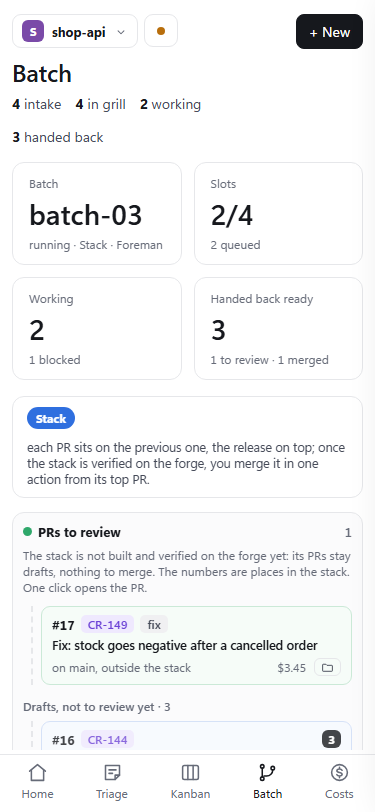
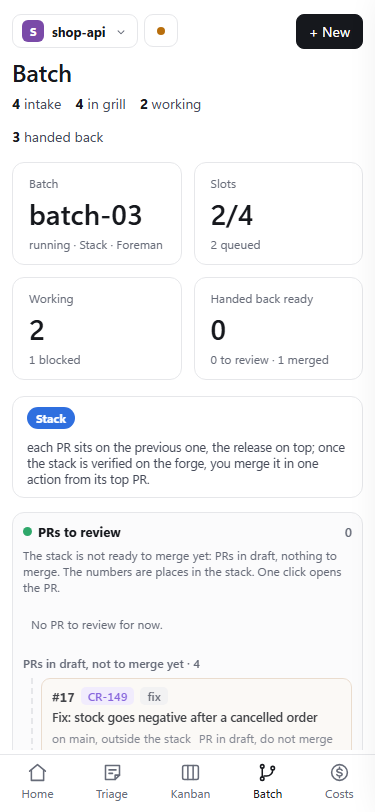
docs(board): retake the web board screenshots and describe the ready locally, PR in draft and ready to merge states

diff --git a/docs/web-board.md b/docs/web-board.md
@@ -18,23 +18,23 @@ The data refreshes by itself. The line under the bar says how old it is (`Data: 
 
 ![All projects: one line per project](web-board/home-pc.png)
 
-With several projects, Home is the table of **All projects**: the batch of each (running or not), the CRs working, the PRs to review, a progress gauge, what was spent against the budget, and the numbers of the intake and the grill. A click on a line opens that project. All projects is read-only.
+With several projects, Home is the table of **All projects**: the batch of each (running or not), the CRs working, the PRs to review (ready to merge), a progress gauge, what was spent against the budget, and the numbers of the intake and the grill. A click on a line opens that project. All projects is read-only.
 
 ### Home: a project
 
 ![A project's Home](web-board/project-pc.png)
 
-A project's Home answers "what needs me?": the PRs ready to review, what is blocked and the questions the Foreman asked, the next batch in preparation (`3-ready`), the pipeline of the backlog, the recent activity of the batch and the last merged CRs.
+A project's Home answers "what needs me?": four tiles (**To review**, the PRs ready to merge; **Waiting for you**, what is blocked and the questions the Foreman asked; **Next batch**; **Written by the board**), the batch with its progress gauge, the open PRs, the pipeline of the backlog, the recent activity of the batch and the last merged CRs.
 
 ### Batch
 
-![The batch: levels, PRs to review and merged PRs](web-board/batch-pc.png)
+![The batch: levels, PRs to review, PRs in draft and merged PRs](web-board/batch-pc.png)
 
-The batch in a few numbers (its id, the slots, the CRs working, the CRs handed back, the cost against the budget), then the CRs as boxes in levels: a CR sits one level after the CRs it waits for, and an arrow goes from a CR to the one that waits for it. The colour is the state: blocked, working, handed back, waits, queued, merged. Hover a CR to see what it waits for and what waits for it; a click opens its folder.
+The batch in a few numbers (its id, the slots, the CRs working, the CRs handed back ready, the cost against the budget), then the CRs as boxes in levels: a CR sits one level after the CRs it waits for, and an arrow goes from a CR to the one that waits for it. The colour is the state: blocked, working, **ready to merge**, **PR in draft**, **ready locally** (done, no PR yet), waits, queued, merged. Hover a CR to see what it waits for and what waits for it; a click opens its folder.
 
 The right column follows the batch's mode (stack, series or parallel, named in the bar under the numbers):
 
-- **PRs to review**: what you can merge now. In a stack, only a fix CR, which sits on the default branch outside the stack, is to review while the stack is not built and verified on the forge; the others are listed as **Drafts, not to review yet**, with their place in the stack (1 is the bottom, not a merge order). A click on a PR opens it on the forge; the folder icon opens the CR's folder.
+- **PRs to review**: the PRs ready to merge now. In a stack, only a fix CR, which sits on the default branch outside the stack, is to review while the stack is not built and verified on the forge; the others are listed as **PRs in draft, not to merge yet**, with their place in the stack (1 is the bottom, not a merge order). A click on a PR opens it on the forge; the folder icon opens the CR's folder.
 - **Merged PRs**: for information, this batch's and the earlier batches'.
 
 ### Kanban
